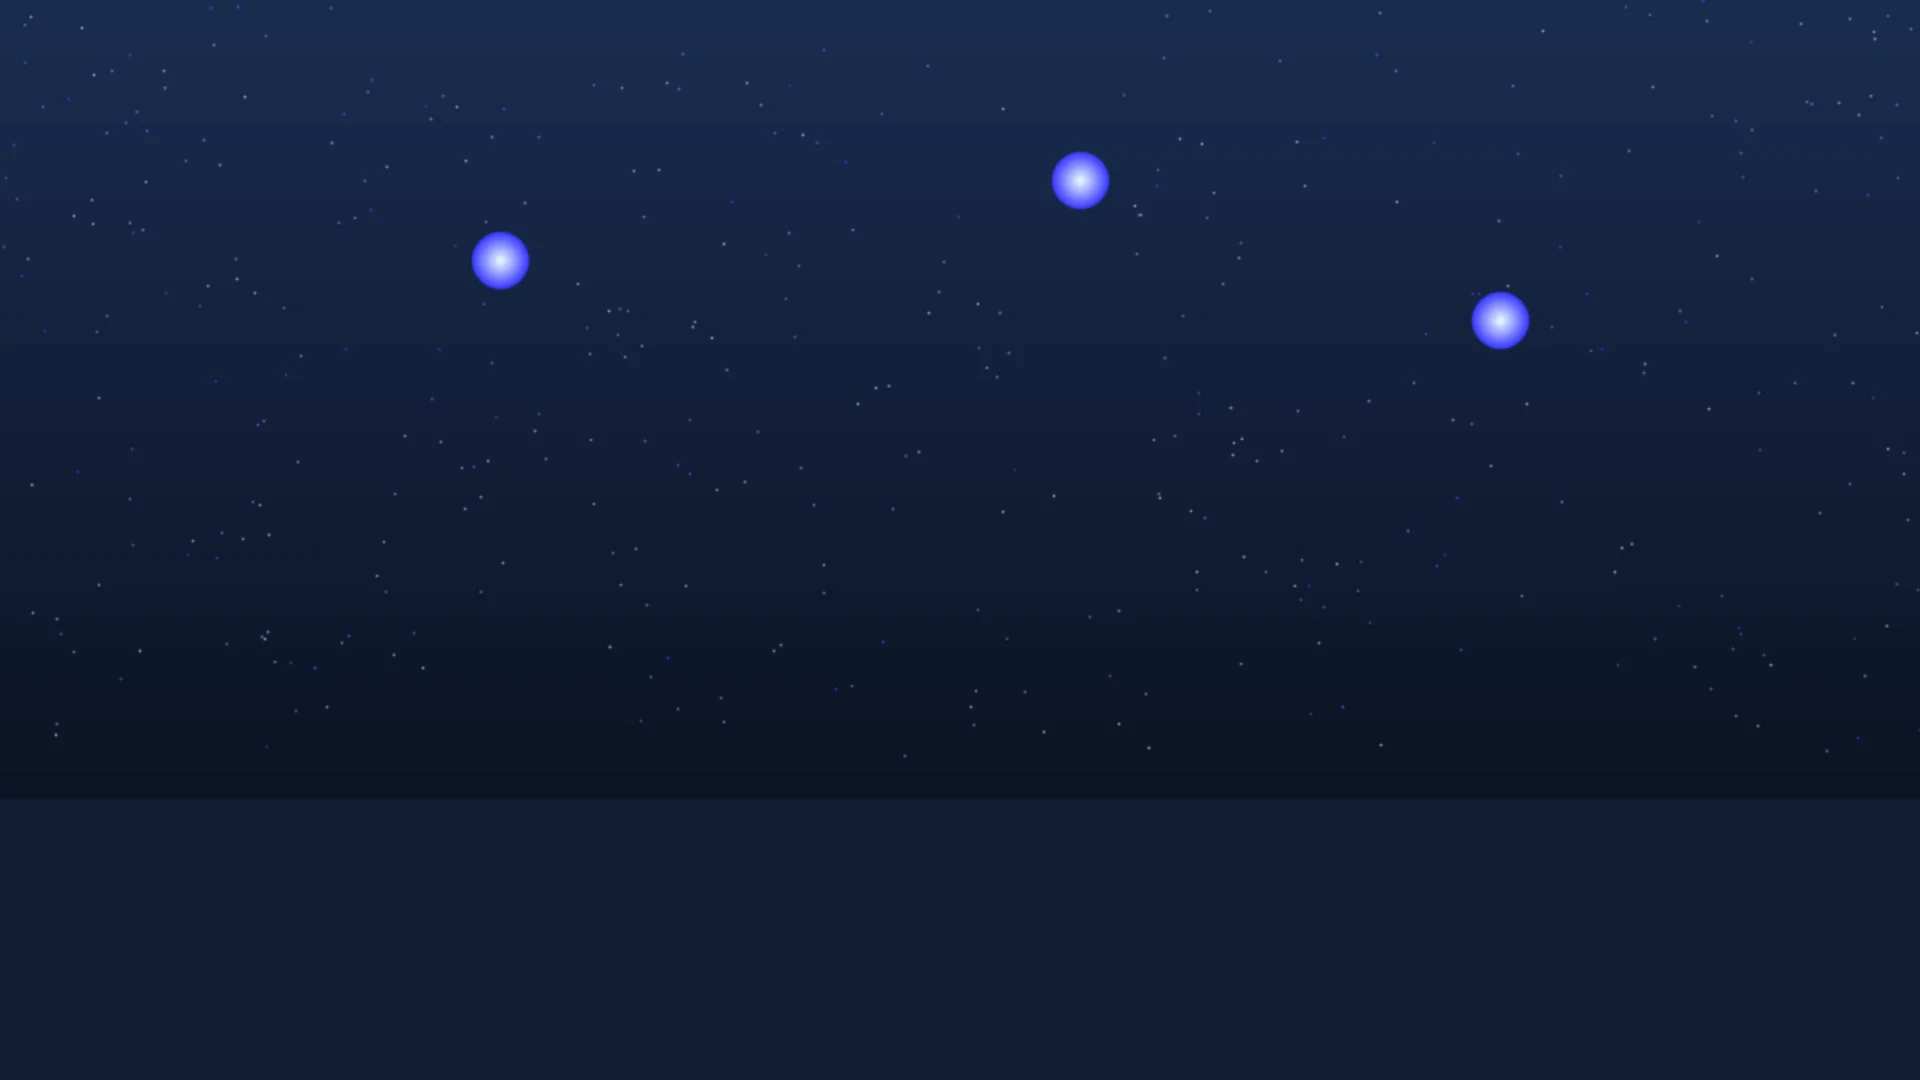
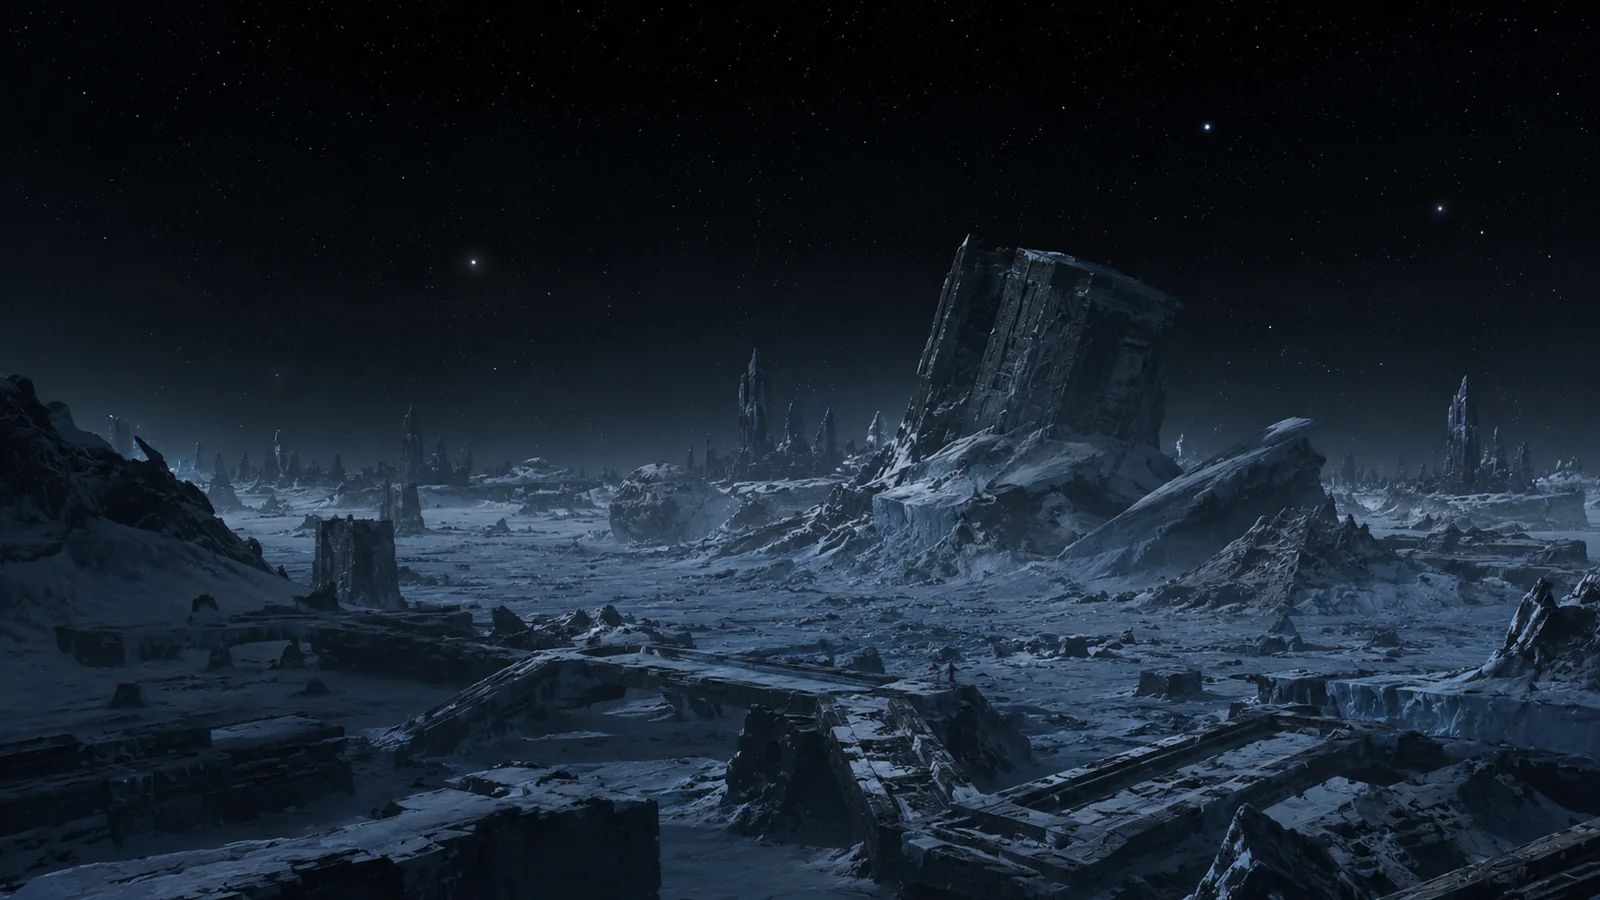
乱纪元:装入GPT真图(三日凌空/三飞星冰封文明废墟)+氛围动效让静态图活起来
- 桌面两张真图转 webp 覆盖占位:sunfire 三日凌空(三大恒星错落+熔岩地表)/
  starflight 三飞星(冰封文明废墟+永夜星空)
- 让静态图动起来:ChaosParticles canvas 粒子层(fire 飘升橙红余烬 lighter 混合/
  frost 飘落冷白寒雪,随上层态切换,pointer-events-none 不挡X-ray/点击)
  +上层图 chaos-pulse 恒星能量缓慢明灭(filter brightness,不改几何不干扰X-ray)

diff --git a/src/components/ChaosParticles/ChaosParticles.jsx b/src/components/ChaosParticles/ChaosParticles.jsx
@@ -1,0 +1,76 @@
+import { useEffect, useRef } from 'react';
+
+// 乱纪元氛围粒子:让静态状态图"活"起来
+// fire(三日凌空)=飘升的橙红余烬火星;frost(三飞星)=飘落的冷白寒雪
+// 随当前上层态切换,透明叠在图上(pointer-events:none,不挡 X-ray/点击)
+export default function ChaosParticles({ mode }) {
+  const hostRef = useRef(null);
+  const modeRef = useRef(mode);
+  modeRef.current = mode;
+
+  useEffect(() => {
+    const host = hostRef.current;
+    const canvas = document.createElement('canvas');
+    canvas.style.cssText = 'width:100%;height:100%;display:block';
+    host.appendChild(canvas);
+    const ctx = canvas.getContext('2d');
+    const dpr = Math.min(window.devicePixelRatio || 1, 2);
+    let W = 1, H = 1, raf = 0, last = performance.now();
+    const rand = (a, b) => a + Math.random() * (b - a);
+
+    const resize = () => {
+      W = host.clientWidth || 1; H = host.clientHeight || 1;
+      canvas.width = Math.round(W * dpr); canvas.height = Math.round(H * dpr);
+      ctx.setTransform(dpr, 0, 0, dpr, 0, 0);
+    };
+    resize();
+    const ro = new ResizeObserver(resize); ro.observe(host);
+
+    const N = Math.round(Math.min(Math.max((window.innerWidth * window.innerHeight) / 22000, 40), 90));
+    const P = Array.from({ length: N }, () => ({
+      x: Math.random(), y: Math.random(),
+      r: rand(0.6, 2.2), a: rand(0.3, 0.75),
+      sp: rand(0.02, 0.06), sway: rand(0.2, 0.9), ph: rand(0, 6.28), tw: rand(0.6, 1.8)
+    }));
+
+    const draw = now => {
+      raf = requestAnimationFrame(draw);
+      const dt = Math.min(0.05, (now - last) / 1000); last = now;
+      ctx.clearRect(0, 0, W, H);
+      const t = now / 1000;
+      const fire = modeRef.current === 'fire';
+      ctx.globalCompositeOperation = fire ? 'lighter' : 'source-over';
+
+      for (const p of P) {
+        // fire 上升(y 减),frost 下落(y 增);横向摇摆
+        p.y += (fire ? -p.sp : p.sp) * dt;
+        if (p.y < -0.03) { p.y = 1.03; p.x = Math.random(); }
+        if (p.y > 1.03) { p.y = -0.03; p.x = Math.random(); }
+        const x = (p.x + Math.sin(t * p.sway + p.ph) * 0.01) * W;
+        const y = p.y * H;
+        const flick = 0.6 + 0.4 * Math.sin(t * p.tw + p.ph);
+        const alpha = (p.a * flick).toFixed(3);
+        const c = fire
+          ? `rgba(255,${(120 + p.r * 30) | 0},${(50 + p.r * 20) | 0},${alpha})`
+          : `rgba(205,222,255,${alpha})`;
+        // 柔光核
+        const g = ctx.createRadialGradient(x, y, 0, x, y, p.r * 3);
+        g.addColorStop(0, c);
+        g.addColorStop(1, fire ? 'rgba(255,120,50,0)' : 'rgba(205,222,255,0)');
+        ctx.fillStyle = g;
+        ctx.beginPath(); ctx.arc(x, y, p.r * 3, 0, 7); ctx.fill();
+        ctx.fillStyle = c;
+        ctx.beginPath(); ctx.arc(x, y, p.r, 0, 7); ctx.fill();
+      }
+    };
+    raf = requestAnimationFrame(draw);
+
+    return () => {
+      cancelAnimationFrame(raf);
+      ro.disconnect();
+      if (host.contains(canvas)) host.removeChild(canvas);
+    };
+  }, []);
+
+  return <div ref={hostRef} className="h-full w-full" aria-hidden="true" />;
+}

diff --git a/src/pages/Chaos.jsx b/src/pages/Chaos.jsx
@@ -1,4 +1,5 @@
 import { useRef, useState } from 'react';
+import ChaosParticles from '../components/ChaosParticles/ChaosParticles';
 
 const BASE = import.meta.env.BASE_URL;
 
@@ -73,7 +74,7 @@ export default function Chaos() {
           src={`${BASE}assets/chaos/${top.img}`}
           alt=""
           aria-hidden="true"
-          className="absolute inset-0 h-full w-full object-cover"
+          className="chaos-pulse absolute inset-0 h-full w-full object-cover"
           style={{ maskImage: XRAY_MASK, WebkitMaskImage: XRAY_MASK }}
         />
         {/* 透视镜发光圈(跟随鼠标) */}
@@ -89,7 +90,12 @@ export default function Chaos() {
         />
       </div>
 
-      <div className="absolute inset-0 bg-black/15" aria-hidden="true" />
+      {/* 氛围粒子:三日凌空飘升余烬 / 三飞星飘落寒雪(随上层态切换) */}
+      <div className="pointer-events-none absolute inset-0 z-[6]">
+        <ChaosParticles mode={topId === 'sunfire' ? 'fire' : 'frost'} />
+      </div>
+
+      <div className="pointer-events-none absolute inset-0 bg-black/15" aria-hidden="true" />
 
       {/* 顶部标题 */}
       <div className="pointer-events-none absolute inset-x-0 top-20 z-10 flex flex-col items-center px-6 text-center [transform:translateZ(0)]">

diff --git a/src/index.css b/src/index.css
@@ -139,6 +139,15 @@
   top: -6px;
 }
 
+/* 乱纪元:上层图恒星能量的缓慢明灭(不改几何,不干扰 X-ray) */
+@keyframes chaos-pulse {
+  0%, 100% { filter: brightness(1) contrast(1); }
+  50% { filter: brightness(1.09) contrast(1.04); }
+}
+.chaos-pulse {
+  animation: chaos-pulse 7s ease-in-out infinite;
+}
+
 /* 8K 星空背景:缓慢呼吸推近 */
 @keyframes bg-breathe {
   from { transform: scale(1); }